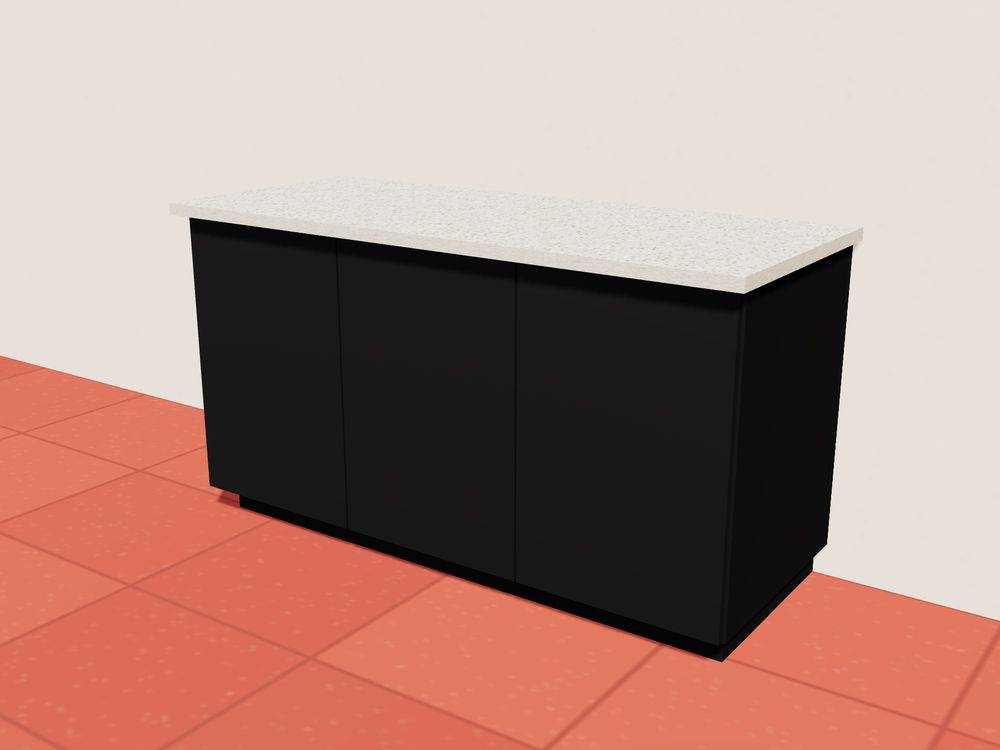
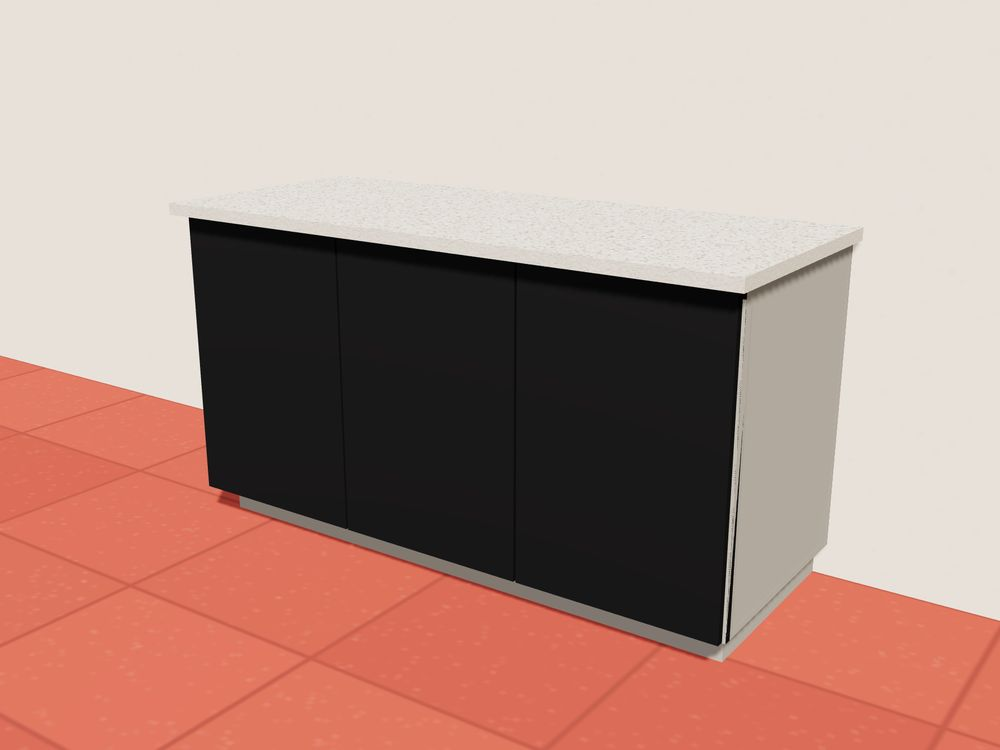
Vista 3D: sin laterales ni estante, obra no incluida en gris
Frente, bajo mesada y alacena ya no muestran laterales ni estante interno.
La estructura de obra que los rodea se ve en gris y el PDF lo aclara.
En el frente, el panel superior queda hundido respecto del marco.

Claude-Session: https://claude.ai/code/session_01Bmmf93H7TPo47YfjFZqJgX

Changed region(s): [[0.217, 0.3067, 0.868, 0.8893]]

diff --git a/index.html b/index.html
@@ -1033,6 +1033,11 @@ function armarPDF3D(numero, cliente){
     doc.setFontSize(9.5); doc.setTextColor(60,60,60);
     doc.text('Así se va a ver tu ' + label.toLowerCase() + '. Te lo mostramos en 3D para que puedas visualizarlo.', marginX, y);
     y += 6;
+    if (tkey !== 'parrillamodular'){
+      doc.setFontSize(7.6); doc.setTextColor(130,130,130);
+      doc.text('En gris: la estructura de obra que lo rodea, no está incluida.', marginX, y - 1.5);
+      y += 3;
+    }
     vista3dData[tkey].forEach(im => {
       const w = 140, h = im.h * w / im.w;
       doc.addImage(im.url, 'JPEG', centro - w/2, y, w, h);
